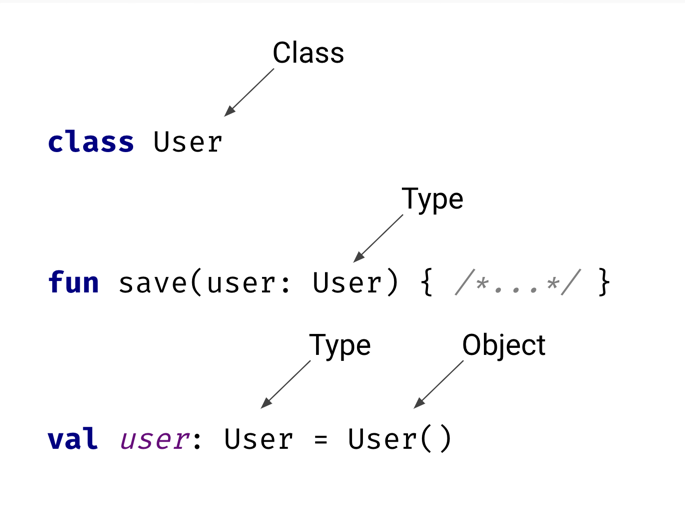
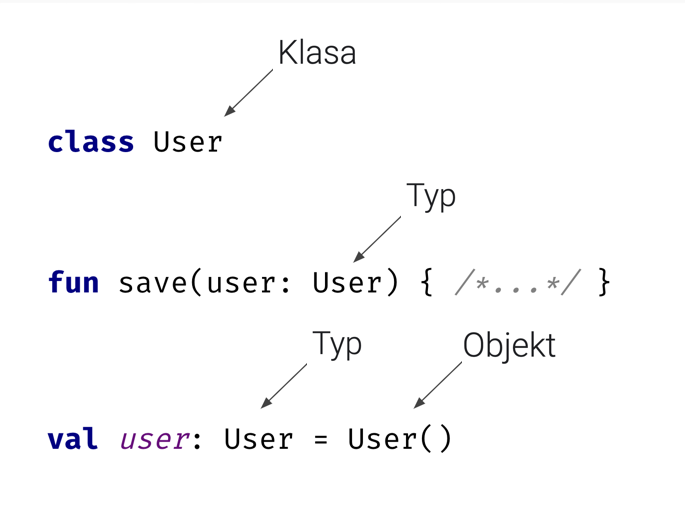
Poprawki od danielmroczka

diff --git a/manuscript/08_nullability.md b/manuscript/08_nullability.md
@@ -1,8 +1,8 @@
 ## Nullowalność
 
-Kotlinie pierwotnie powstawał jako rozwiązanie problemów Javy, a największym problemem w Javie jest możliwość wystąpienia wartości `null` niemalże wszędzie. W Javie, jak w wielu innych językach, każda zmienna może przyjmować wartość `null`. Każde wywołanie na wartości `null` prowadzi do słynnego `NullPointerException` (NPE). Jest to najpopularniejszy wyjątek w większości projektów napisanych w Javie[^08_0]. Jest tak powszechny, że często nazywany jest "błędem za miliard dolarów" po słynnym przemówieniu Sir Charlesa Antony'ego Richarda Hoare'a, który powiedział: "Nazywam to moim błędem za miliard dolarów. Był to wynalazek null reference w 1965 roku... Doprowadziło to do niezliczonych błędów, podatności i awarii systemów, które przez ostatnie czterdzieści lat prawdopodobnie spowodowały straty rzędu miliarda dolarów".
+Kotlin pierwotnie powstawał jako rozwiązanie problemów Javy, a największym problemem w Javie jest możliwość wystąpienia wartości `null` niemalże wszędzie. W Javie, jak w wielu innych językach, każda zmienna może przyjmować wartość `null`. Każde wywołanie na wartości `null` prowadzi do słynnego `NullPointerException` (NPE). Jest to najpopularniejszy wyjątek w większości projektów napisanych w Javie[^08_0]. Jest tak powszechny, że często nazywany jest "błędem za miliard dolarów" po słynnym przemówieniu Sir Charlesa Antony'ego Richarda Hoare'a, który powiedział: "Nazywam to moim błędem za miliard dolarów. Był to wynalazek null reference w 1965 roku... Doprowadziło to do niezliczonych błędów, podatności i awarii systemów, które przez ostatnie czterdzieści lat prawdopodobnie spowodowały straty rzędu miliarda dolarów".
 
-Jednym z priorytetów Kotlina było ostateczne rozwiązanie tego problemu, co udało się doskonale. Wprowadzone w Kotlinie mechanizmy są tak skuteczne, że zobaczenie `NullPointerException` wyrzuconego z kodu Kotlinie jest niezwykle rzadkie. Wartość `null` przestała być problemem, a programiści Kotla już się jej nie obawiają. Stała się naszym przyjacielem.
+Jednym z priorytetów Kotlina było ostateczne rozwiązanie tego problemu, co udało się doskonale. Wprowadzone w nim mechanizmy są tak skuteczne, że zobaczenie `NullPointerException` rzuconego z kodu napisanego w Kotlinie jest niezwykle rzadkie. Wartość `null` przestała być problemem, a programiści Kotlina już się jej nie obawiają. Stała się naszym przyjacielem.
 
 Jak to zatem działa? Opiera się to na następujących zasadach:
 
@@ -242,7 +242,7 @@ fun main() {
 }
 ```
 
-Biblioteka standardowa Kotlinie zawiera również podobne funkcje dla nullowalnych list:
+Biblioteka standardowa Kotlina zawiera również podobne funkcje dla nullowalnych list:
 * `orEmpty` zwraca pustą listę zamiast `null`.
 * `isNullOrEmpty` zwraca `true`, jeśli wartość jest `null` lub pusta. W przeciwnym razie zwraca `false`.
 
@@ -277,7 +277,7 @@ To, że każda wartość mogła być nullem, jest ogromnym problemem w językach
 
 ### Właściwości lateinit
 
-Są sytuacje, gdy chcemy, aby właściwość klasy miała typ nienullowalny, ale nie możemy określić jej wartości podczas tworzenia obiektu. Chodzi przede wszystkim o właściwości, których wartość jest wstrzykiwana lub są tworzone w jednej z pierwszych metod cyklu życia klasy. Uczynienie takich właściwości nullowalnymi wymagałoby ich odpakowania przy każdym użyciu, mimo iż wiedzielibyśmy, że nie mogą mieć one wartości `null`, ponieważ spodziewamy się że ich wartość zostanie wstrzyknięta lub ustawiona odpowiednio wcześniej. Dla takich sytuacji twórcy Kotlinie wprowadzili modyfikator `lateinit`. Gdy go używamy, właściwość nie określa wartości pierwotnej, a przy tym musi mieć typ nienullowany. Kotlin spodziewa się, że ustawimy wartość tej właściwości przed jej pierwszym użyciem. Przykłady użycia `lateinit`:
+Są sytuacje, gdy chcemy, aby właściwość klasy miała typ nienullowalny, ale nie możemy określić jej wartości podczas tworzenia obiektu. Chodzi przede wszystkim o właściwości, których wartość jest wstrzykiwana lub są tworzone w jednej z pierwszych metod cyklu życia klasy. Uczynienie takich właściwości nullowalnymi wymagałoby ich odpakowania przy każdym użyciu, mimo iż wiedzielibyśmy, że nie mogą mieć one wartości `null`, ponieważ spodziewamy się że ich wartość zostanie wstrzyknięta lub ustawiona odpowiednio wcześniej. Dla takich sytuacji twórcy Kotlina wprowadzili modyfikator `lateinit`. Gdy go używamy, właściwość nie określa wartości pierwotnej, a przy tym musi mieć typ nienullowany. Kotlin spodziewa się, że ustawimy wartość tej właściwości przed jej pierwszym użyciem. Przykłady użycia `lateinit`:
 
 ```kotlin
 @AndroidEntryPoint
@@ -349,7 +349,7 @@ fun main() {
 
 ### Podsumowanie
 
-Kotlinie oferuje potężne wsparcie dla nullowalności, które sprawia że `null` przestaje być zagrożeniem, a staje się bezpieczny i prawdziwie użyteczny. System wsparcia obejmuje system typów, który rozróżnia, co jest nullowalne a co nie. Zmienne, które są nullowanye, muszą być używane bezpiecznie; do tego możemy użyć bezpiecznych wywołań, asercji not-null, smart-castingu czy operatora Elvisa. Teraz przejdźmy wreszcie do klas. Używaliśmy ich już wiele razy, ale dopiero teraz mamy wszystko, czego potrzebujemy, aby dobrze je omówić.
+Kotlin oferuje potężne wsparcie dla nullowalności, które sprawia, że `null` przestaje być zagrożeniem, a staje się bezpieczny i prawdziwie użyteczny. System wsparcia obejmuje system typów, który rozróżnia, co jest nullowalne a co nie. Zmienne, które są nullowanye, muszą być używane bezpiecznie; do tego możemy użyć bezpiecznych wywołań, asercji not-null, smart-castingu czy operatora Elvisa. Teraz przejdźmy wreszcie do klas. Używaliśmy ich już wiele razy, ale dopiero teraz mamy wszystko, czego potrzebujemy, aby dobrze je omówić.
 
 [^08_0]: Niektóre badania to potwierdzają: na przykład dane zebrane przez OverOps potwierdzają, że `NullPointerException` jest najczęstszym wyjątkiem w 70% projektów.
 [^08_1]: Zobacz artykuł "Null is your friend, not a mistake" (link https://kt.academy/l/re-null) autorstwa Romana Elizarova, obecnego kierownika zespołu tworzącego język Kotlin.

diff --git a/manuscript/about_pl.md b/manuscript/about_pl.md
@@ -1,25 +1,26 @@
 # Kotlin dla programistów
 
-Kotlin to niesamowity język wieloplatformowy, głównie dzięki swojej czytelnej składni, intuicyjnemu i bezpiecznemu dla wartości null systemowi typów oraz świetnemu wsparciu narzędzi. Nic dziwnego, że stał się najpopularniejszym językiem do tworzenia aplikacji na Androida i, w przypadku aplikacji backendowych, popularną alternatywą dla Javy. Jest również używany przy przetwarzaniu i analizie danych oraz w programowaniu wieloplatformowych aplikacji na iOS, komputery stacjonarne i strony internetowe. W tej książce nauczysz się najważniejszych funkcji języka Kotlin, które pozwolą Ci właściwie rozpocząć twoją przygodę z Kotlinem.
+Kotlin to niesamowity język wieloplatformowy, głównie dzięki swojej czytelnej składni, intuicyjnemu i bezpiecznemu dla wartości null systemowi typów oraz świetnemu wsparciu narzędzi. Nic dziwnego, że stał się najpopularniejszym językiem do tworzenia aplikacji na Androida i, zwłaszcza w przypadku aplikacji backendowych, popularną alternatywą dla Javy. Jest również używany przy przetwarzaniu i analizie danych oraz w programowaniu wieloplatformowych aplikacji na iOS, komputery stacjonarne i strony internetowe. W tej książce nauczysz się najważniejszych funkcjonalności języka Kotlin, które pozwolą Ci właściwie rozpocząć przygodę z Kotlinem.
 
 ## O książce
 
-Ta książka omawia podstawy języka Kotlin, abyś mógł zacząć tworzyć aplikacje w tym niesamowitym języku programowania. Prezentuje niemal wszystko, co musisz wiedzieć, w przejrzystych i wykonywalnych przykładach kodu.
+Ta książka omawia podstawy języka Kotlin, abyś mógł zacząć tworzyć aplikacje w tym niesamowitym języku programowania. Prezentuje niemal wszystko, co musisz wiedzieć, poprzez przejrzyste przykłady.
 
 ## Dla kogo jest ta książka
 
-Książka ta jest przeznaczona dla programistów z doświadczeniem w innych językach programowania. Konkretnie, doświadczenie w programowaniu obiektowym (takim jak Java, JavaScript, Python czy C++) będzie korzystne dla czytelnika.
+Książka ta jest przeznaczona dla programistów z doświadczeniem w innych językach programowania. Szczególnie korzystne jest doświadczenie z dowolnym językiem z dobrym wsparciem dla klas i obiektowości (czyli z językiem takim jak Java, JavaScript, Python czy C++).
 
 ## Zakres tematyczny
 
-Książka skupia się na podstawowych funkcjach języka Kotlin, takich jak:
+Książka skupia się na kluczowych funkcjonalnościach języka Kotlin, takich jak:
 * zmienne, wartości i typy,
 * instrukcje warunkowe i pętle,
-* wsparcie dla nullowalności,
+* wsparcie dla wartości nullowalnych,
 * klasy, interfejsy i dziedziczenie,
-* wyrażenia i deklaracje obiektów,
-* klasy danych, szczelnie zamknięte, wyliczeniowe i adnotacje,
-* funkcje rozszerzeń,
+* wyrażenia tworzące obiekt i deklaracje obiektów,
+* klasy typu data, enum i sealed,
+* anotacje i wyjątki,
+* funkcje rozszerzające,
 * kolekcje,
 * przeciążanie operatorów,
 * system typów,

diff --git a/manuscript/09_classes.md b/manuscript/09_classes.md
@@ -319,7 +319,7 @@ fun main() {
 }
 ```
 
-Konstruktory są zwykle używane do ustawiania początkowych wartości naszych właściwości. Aby to uprościć, w Kotlinie wprowadził specjalny rodzaj konstruktora nazywany **konstruktorem głównym** (**primary constructor**). Definiuje się go zaraz po nazwie klasy, a jego parametry można użyć do inicjalizacji właściwości.
+Konstruktory są zwykle używane do ustawiania początkowych wartości naszych właściwości. Aby to uprościć, w Kotlinie wprowadzono specjalny rodzaj konstruktora nazywany **konstruktorem głównym** (**primary constructor**). Definiuje się go zaraz po nazwie klasy, a jego parametry można użyć do inicjalizacji właściwości.
 
 ```kotlin
 class User constructor(name: String, surname: String) {
@@ -408,7 +408,7 @@ fun main() {
 
 ### Klasy reprezentujące dane w Kotlinie i Javie
 
-Porównując klasy zdefiniowane w Kotlinie i Javie, możemy zauważyć, ile powtarzalnego kodu zostało wyeliminowanego dzięki zwięzłej składni Kotlina. W Javie, aby zareprezentować prostego użytkownika, z imieniem, nazwiskiem i wiekiem, typowa implementacja wygląda następująco:
+Porównując klasy zdefiniowane w Kotlinie i Javie, możemy zauważyć, ile powtarzalnego kodu zostało wyeliminowanego dzięki zwięzłej składni Kotlina. W Javie, aby za reprezentować prostego użytkownika, z imieniem, nazwiskiem i wiekiem, typowa implementacja wygląda następująco:
 
 ```java
 public final class User {
@@ -454,7 +454,7 @@ class User(
 )
 ```
 
-Wynik kompilacji jest praktycznie taki sam. Gettery i konstruktory są obecne. Jeśli w to nie wierzysz, sprawdź sam (jak przedstawiono w sekcji *Co kryje się pod maską na JVM?* w rozdziale *Twój pierwszy program w Kotlinie*). Kotlinie to zwięzły, ale potężny język.
+Wynik kompilacji jest praktycznie taki sam. Gettery i konstruktory są obecne. Jeśli w to nie wierzysz, sprawdź sam (jak przedstawiłem w sekcji *Co kryje się pod maską na JVM?* w rozdziale *Twój pierwszy program w Kotlinie*). Kotlin to zwięzły, ale potężny język.
 
 ### Klasy wewnętrzne
 

diff --git a/manuscript/18_collections.md b/manuscript/18_collections.md
@@ -725,7 +725,7 @@ fun main() {
 
 ### Tablice
 
-**Tablica** to nisko-poziomowa struktura danych, która ściśle wiąże się z organizacją danych w pamięci. Pamięć naszego komputera przypomina wielki parking, gdzie każde miejsce oznaczone jest kolejnym numerem. Tablica przypomina rezerwację na kilka przyległych miejsc. Dzięki takiej rezerwacji łatwo iterować się po samochodach, które posiadamy. Również łatwo znaleźć samochód o konkretnym indeksie.
+**Tablica** to nisko-poziomowa struktura danych, która ściśle wiąże się z organizacją danych w pamięci. Pamięć naszego komputera przypomina wielki parking, gdzie każde miejsce oznaczone jest kolejnym numerem. Tablica przypomina rezerwację na kilka przyległych miejsc. Dzięki takiej rezerwacji łatwo iterować po samochodach, które posiadamy. Również łatwo znaleźć samochód o konkretnym indeksie.
 
 Załóżmy, że tablica zaczyna się na pozycji 1024 w pamięci, a my chcemy znaleźć element o indeksie 100 w tablicy. Wiemy również, że każdy element zajmuje 4 pozycje (tablica rezerwuje stałą ilość miejsca dla swoich elementów, która w większości przypadków to rozmiar referencji pamięci). To proste zadanie: nasz element zaczyna się na pozycji 1024 + 100 * 4 = 1424. Jak więc widać, nie musimy szukać samochody o konkretnym indeksie, doskonale wiemy, gdzie on jest. Dlatego dostęp do elementu na określonej pozycji to bardzo prosta i wydajna operacja, co jest dużą zaletą korzystania z tablic.
 
@@ -884,7 +884,7 @@ fun main() {
 
 ### Podsumowanie
 
-W tym rozdziale omówiliśmy najważniejsze rodzaje kolekcji Kotlina i ich typowe przypadki użycia:
+W tym rozdziale omówiliśmy najważniejsze rodzaje kolekcji używane w Kotlinie i ich typowe przypadki użycia:
 
 * `List` reprezentuje uporządkowaną kolekcję elementów. Jest to najbardziej podstawowy sposób przechowywania kolekcji elementów.
 * `Set` reprezentuje kolekcję unikalnych elementów. Używamy go, gdy chcemy się upewnić, że elementy w naszej kolekcji są unikalne, lub gdy często szukamy określonego elementu.

diff --git a/manuscript/19_operators.md b/manuscript/19_operators.md
@@ -188,7 +188,7 @@ public interface Iterable<out T> {
 }
 ```
 
-Mogą istnieć obiekty iterowane, które nie implementują interfejsu `Iterable`. `Map` jest świetnym przykładem. Nie implementuje interfejsu `Iterable`, jednak można po nim iterować, używając pętli for. Jak to możliwe? Dzięki operatorowi `iterator`, który jest zdefiniowany jako funkcja rozszerzająca w bibliotece standardowej Kotlin.
+Mogą istnieć obiekty iterowane, które nie implementują interfejsu `Iterable`. `Map` jest świetnym tego przykładem. Nie implementuje interfejsu `Iterable`, jednak można po nim iterować, używając pętli for. Jak to możliwe? Dzięki operatorowi `iterator`, który jest zdefiniowany jako funkcja rozszerzająca w bibliotece standardowej Kotlin.
 
 ```kotlin
 // Część biblioteki standardowej Kotlin
@@ -488,7 +488,7 @@ fun main() {
 
 ### Kolejność wywołania operatorów
 
-Jaki jest wynik wyrażenia `1 + 2 * 3`? Odpowiedź brzmi `7`, a nie `9`, ponieważ w matematyce mnożymy przed dodawaniem. Mówimy, że mnożenie ma wyższy priorytet niż dodawanie.
+Jaki jest wynik wyrażenia `1 + 2 * 3`? Odpowiedź brzmi `7`, a nie `9`, ponieważ w matematyce mnożenie wykonuje się przed dodawaniem. Mówimy, że mnożenie ma wyższy priorytet niż dodawanie.
 
 Priorytet jest również niezwykle ważny w programowaniu, ponieważ gdy kompilator ewaluuje wyrażenie takie jak `1 + 2 == 3`, musi wiedzieć, czy powinien najpierw dodać `1` do `2`, czy porównać `2` i `3`. Poniższa tabela porównuje priorytety wszystkich operatorów, w tym tych, które można przeciążyć, i tych, których nie można.
 

diff --git a/manuscript/17_extensions.md b/manuscript/17_extensions.md
@@ -125,7 +125,7 @@ Pod maską są niemal identyczne. Różnica polega na tym, jak się je wywołuje
 Rozszerzenie nie może przechowywać stanu, więc nie może mieć pól. Ale przecież właściwości nie potrzebują pól, mogą być definiowane przez gettery i settery, czyli akcesory. Dlatego możemy definiować właściwości rozszerzające, jeśli nie potrzebują one pola i są w zupełności definiowane przez akcesory.
 
 ```kotlin
-val <T> List<T>.ostatniIndeks: Int
+val <T> List<T>.lastIndex: Int
     get() = size - 1
 ```
 
@@ -136,13 +136,13 @@ val Context.inflater: LayoutInflater
     get() = getSystemService(Context.LAYOUT_INFLATER_SERVICE)
     as LayoutInflater
 
-val Context.menadzerPowiadomien: NotificationManager
+val Context.notificationManager: NotificationManager
     get() = getSystemService(Context.NOTIFICATION_SERVICE)
-    as NotificationManager
+            as NotificationManager
 
-val Context.menadzerAlarmow: AlarmManager
+val Context.alarmManager: AlarmManager
     get() = getSystemService(Context.ALARM_SERVICE)
-    as AlarmManager
+            as AlarmManager
 ```
 
 Właściwości rozszerzające mogą definiować zarówno gettera, jak i settera. Oto właściwość rozszerzenia, która dostarcza inną reprezentację daty urodzenia użytkownika:

diff --git a/manuscript/20_type_system.md b/manuscript/20_type_system.md
@@ -53,7 +53,7 @@ Istnieją klasy, które generują znacznie więcej typów: klasy ogólne. Klasa 
 
 Dyskusja o różnicy między klasą a typem może się wydawać bardzo teoretycznie, ale ma praktyczne implikacje. Zauważ, że klasy nie mogą być nullowalne, ale typy już tak. Weź pod uwagę początkowy przykład, gdzie poprosiłem Cię, abyś wskazał, gdzie `User` jest typem. Tylko na pozycjach reprezentujących typy można użyć `User?` zamiast `User`.
 
-![](typing_system_type_vs_class_nullowanych.png)
+![](typing_system_type_vs_class_nullable.png)
 
 Funkcje klas są zdefiniowane dla klas, więc ich odbiorca nie może być nullowany ani określać typu generycznego[^20_4]. Funkcje rozszerzające są zdefiniowane na typach, więc mogą być nullowane lub zdefiniowane dla typu generycznegi. Weź pod uwagę funkcję `sum`, która jest rozszerzeniem `Iterable<Int>`, lub funkcję `isNullOrBlank`, która jest rozszerzeniem `String?`.
 
